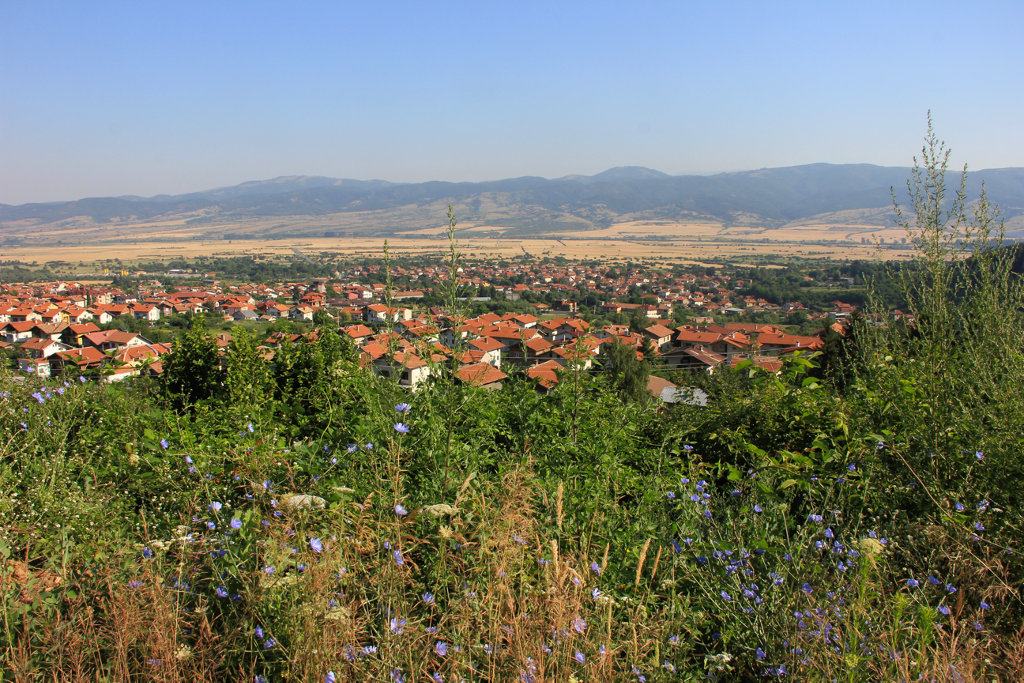
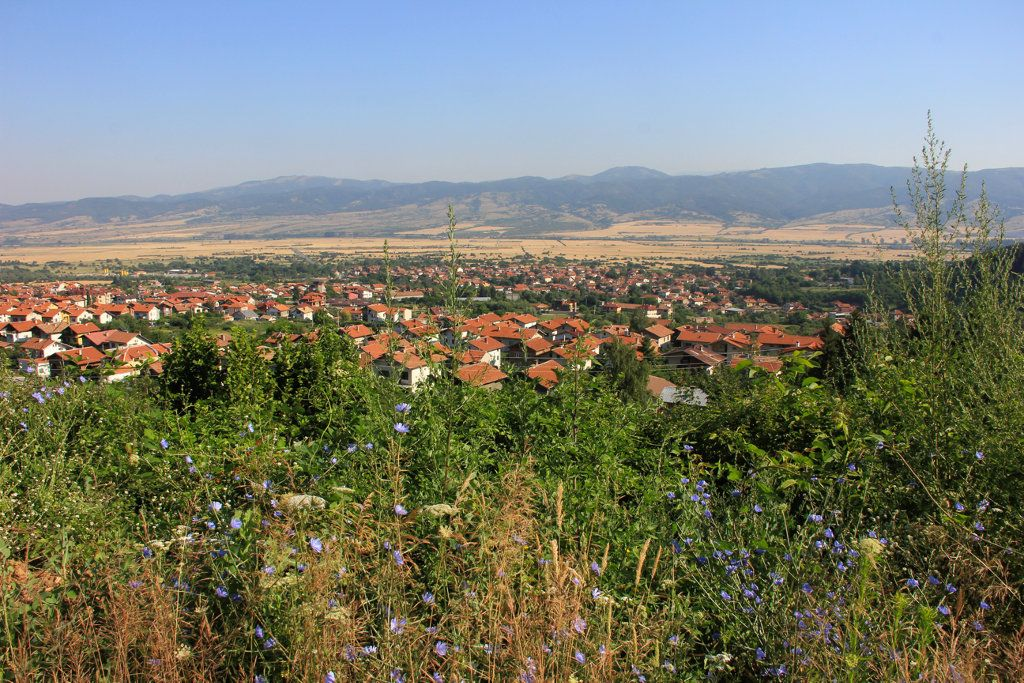
Add Rhodope cover image + image compression script

diff --git a/scripts/compress_image.py b/scripts/compress_image.py
@@ -1,0 +1,63 @@
+#!/usr/bin/env python3
+"""
+Compress images for web use.
+- Resizes to max 1200px width (good for retina displays, fast on mobile)
+- JPEG quality 80 (great quality, much smaller file)
+- Strips metadata
+- Outputs to assets/images/
+
+Usage: python3 scripts/compress_image.py <input_path> <output_name>
+Example: python3 scripts/compress_image.py ~/Downloads/photo.jpg rhodope-cover
+"""
+
+import sys
+import os
+from PIL import Image
+
+MAX_WIDTH = 1200
+QUALITY = 80
+OUTPUT_DIR = os.path.join(os.path.dirname(os.path.dirname(os.path.abspath(__file__))), 'assets', 'images')
+
+def compress(input_path, output_name):
+    if not os.path.exists(input_path):
+        print(f"Error: File not found: {input_path}")
+        sys.exit(1)
+
+    os.makedirs(OUTPUT_DIR, exist_ok=True)
+
+    img = Image.open(input_path)
+    original_size = os.path.getsize(input_path)
+
+    # Convert to RGB if needed (handles PNG with transparency, HEIC, etc.)
+    if img.mode in ('RGBA', 'LA', 'P'):
+        background = Image.new('RGB', img.size, (255, 255, 255))
+        if img.mode == 'P':
+            img = img.convert('RGBA')
+        background.paste(img, mask=img.split()[-1] if img.mode in ('RGBA', 'LA') else None)
+        img = background
+    elif img.mode != 'RGB':
+        img = img.convert('RGB')
+
+    # Resize if wider than MAX_WIDTH
+    if img.width > MAX_WIDTH:
+        ratio = MAX_WIDTH / img.width
+        new_height = int(img.height * ratio)
+        img = img.resize((MAX_WIDTH, new_height), Image.LANCZOS)
+        print(f"Resized: {img.width}x{new_height}")
+
+    output_path = os.path.join(OUTPUT_DIR, f"{output_name}.jpg")
+    img.save(output_path, 'JPEG', quality=QUALITY, optimize=True, progressive=True)
+
+    compressed_size = os.path.getsize(output_path)
+    savings = (1 - compressed_size / original_size) * 100
+
+    print(f"Original:  {original_size / 1024:.0f} KB")
+    print(f"Compressed: {compressed_size / 1024:.0f} KB")
+    print(f"Savings:   {savings:.0f}%")
+    print(f"Output:    {output_path}")
+
+if __name__ == '__main__':
+    if len(sys.argv) < 3:
+        print(__doc__)
+        sys.exit(1)
+    compress(sys.argv[1], sys.argv[2])

diff --git a/assets/images/README.md b/assets/images/README.md
@@ -1,0 +1,15 @@
+# Image Compression
+
+When adding photos to the app, always compress them first:
+
+```bash
+python3 scripts/compress_image.py <path-to-your-photo.jpg> <output-name>
+```
+
+This will:
+- Resize to max 1200px wide (perfect for retina + mobile)
+- Compress to JPEG quality 80 (great quality, small file)
+- Strip metadata
+- Save to `assets/images/<output-name>.jpg`
+
+**Before committing:** Run the script on any new images so the site loads fast on iPhone and desktop.